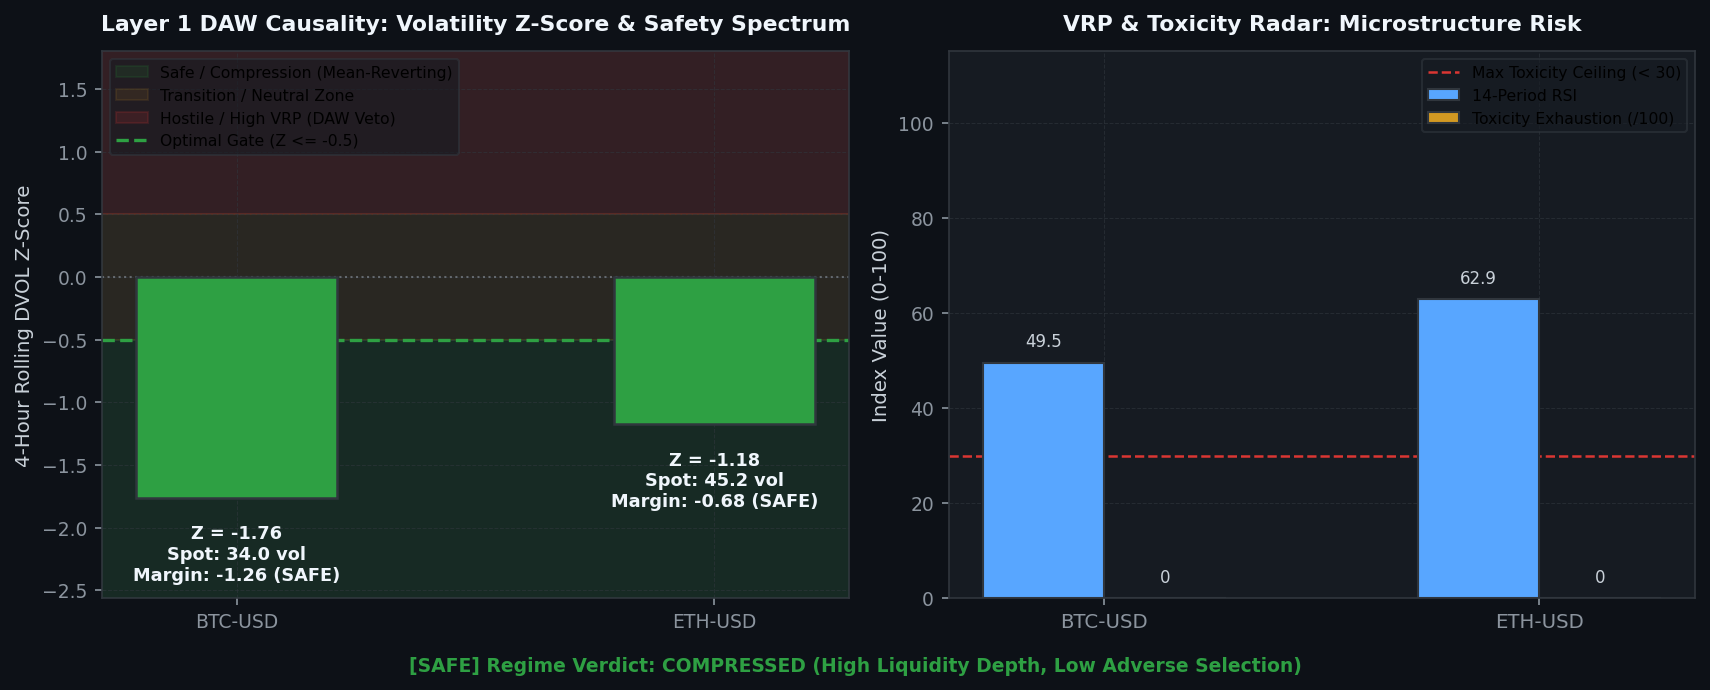
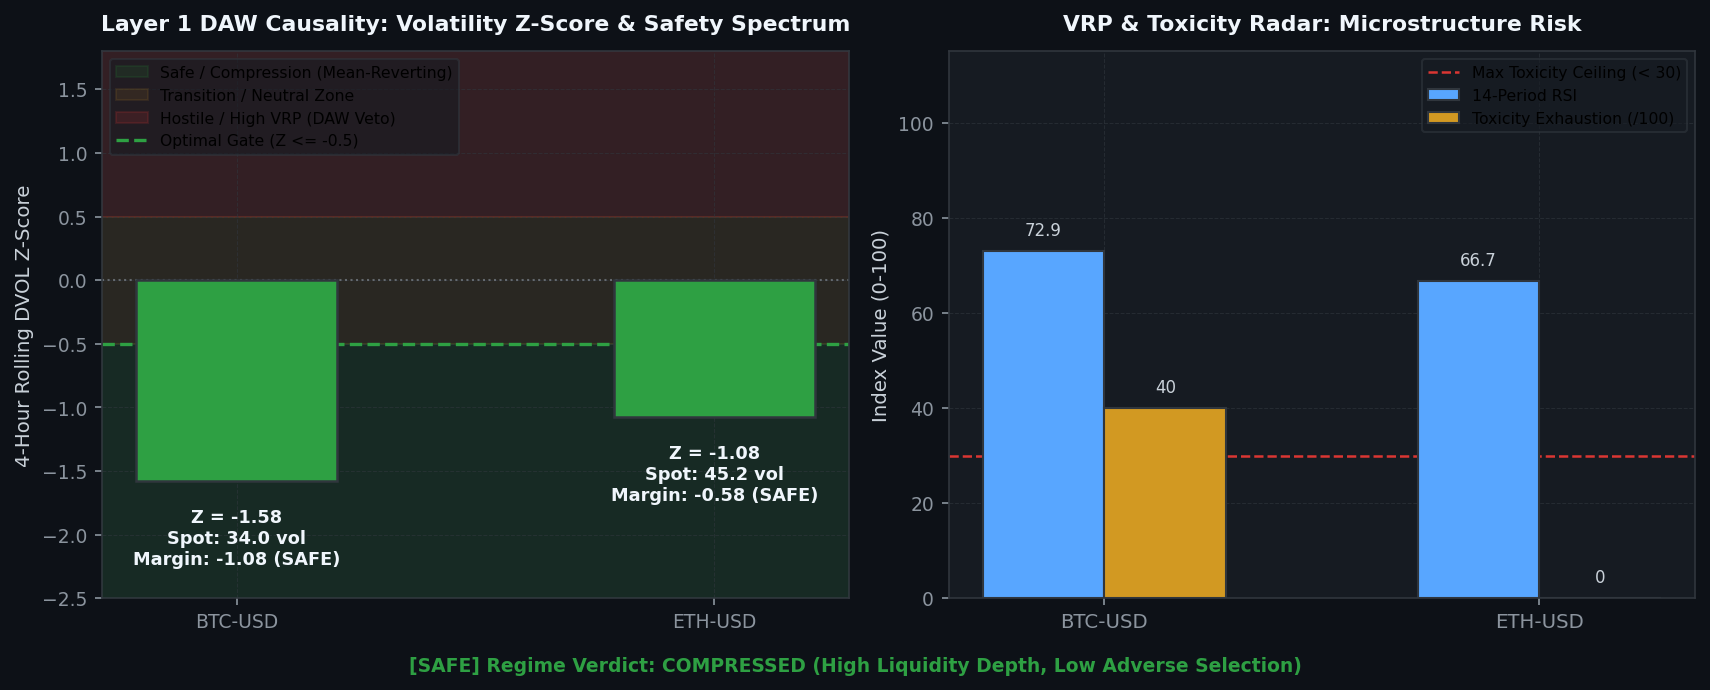
[coinbase] Hourly Status & Visual Intelligence Update: 2026-08-17 05:46:12

diff --git a/coinbase/data/hourly_status_report.md b/coinbase/data/hourly_status_report.md
@@ -1,5 +1,5 @@
 # 🛡 Unified Trading System Hourly Status & Visual Intelligence
-> **Report Generated**: `2026-08-17 05:27:41 AM PDT (2026-08-17 12:27:41 UTC)`  
+> **Report Generated**: `2026-08-17 05:45:51 AM PDT (2026-08-17 12:45:51 UTC)`  
 > **System Health**: **🟡 DEGRADED / RESTRICTED** | **Win Rate**: `0.0%` | **Completed Trades**: `0`
 
 ---
@@ -8,13 +8,13 @@ Real-time Deribit implied volatility (DVOL) proxy tracking against mathematicall
 
 | Symbol | Proxy Oracle | Live Z-Score | Optimal Limit (YSP) | Safety Margin | Live VRP | Optimal VRP (YSP) | DAW Safety Verdict |
 | :--- | :--- | :--- | :--- | :--- | :--- | :--- | :--- |
-| `AVAX-USD` | DVOL_BTC | **-1.76** | **-0.50** | **-1.26** | **+16.13** | 5.0 | 🔴 DAW VETOED |
-| `ETH-USD` | DVOL_ETH | **-1.17** | **-0.50** | **-0.67** | **+27.40** | 5.0 | 🔴 DAW VETOED |
-| `ADA-USD` | DVOL_BTC | **-1.76** | **-0.50** | **-1.26** | **+16.13** | 5.0 | 🔴 DAW VETOED |
-| `DOGE-USD` | DVOL_BTC | **-1.76** | **-0.50** | **-1.26** | **+16.13** | 5.0 | 🔴 DAW VETOED |
-| `BTC-USD` | DVOL_BTC | **-1.76** | **-0.50** | **-1.26** | **+16.13** | 5.0 | 🔴 DAW VETOED |
-| `LINK-USD` | DVOL_BTC | **-1.76** | **-0.50** | **-1.26** | **+16.13** | 5.0 | 🔴 DAW VETOED |
-| `SOL-USD` | DVOL_BTC | **-1.76** | **-0.50** | **-1.26** | **+16.13** | 5.0 | 🔴 DAW VETOED |
+| `AVAX-USD` | DVOL_BTC | **-1.58** | **-0.50** | **-1.08** | **+16.35** | 5.0 | 🔴 DAW VETOED |
+| `ETH-USD` | DVOL_ETH | **-1.08** | **-0.50** | **-0.58** | **+27.61** | 5.0 | 🔴 DAW VETOED |
+| `ADA-USD` | DVOL_BTC | **-1.58** | **-0.50** | **-1.08** | **+16.34** | 5.0 | 🔴 DAW VETOED |
+| `DOGE-USD` | DVOL_BTC | **-1.58** | **-0.50** | **-1.08** | **+16.35** | 5.0 | 🔴 DAW VETOED |
+| `BTC-USD` | DVOL_BTC | **-1.58** | **-0.50** | **-1.08** | **+16.35** | 5.0 | 🔴 DAW VETOED |
+| `LINK-USD` | DVOL_BTC | **-1.58** | **-0.50** | **-1.08** | **+16.35** | 5.0 | 🔴 DAW VETOED |
+| `SOL-USD` | DVOL_BTC | **-1.58** | **-0.50** | **-1.08** | **+16.35** | 5.0 | 🔴 DAW VETOED |
 
 ![DVOL Market Regime](./images/dvol_regime_timeline.png)
 
@@ -44,12 +44,12 @@ We hereby certify that the mission-critical algorithmic data assets uploaded by 
 
 | Status | Data Asset | Freshness / State | Details / Timestamp |
 | :---: | :--- | :--- | :--- |
-| ✅ | **Go-List JSON** | Fresh (4.44h old) | 08-17 01:01 |
-| ✅ | **TimesFM Forecasts** | Fresh (0.77h old) | 08-17 04:41 |
-| ✅ | **Holding Times config** | Fresh (4.24h old) | 08-17 01:13 |
-| ✅ | **BTC DVOL Cache** | Fresh (0.00h old) | 08-17 05:27 |
-| ✅ | **ETH DVOL Cache** | Fresh (0.00h old) | 08-17 05:27 |
-| ✅ | **Live Trading Telemetry** | Fresh (0.00h old) | 08-17 05:27 |
+| ✅ | **Go-List JSON** | Fresh (4.74h old) | 08-17 01:01 |
+| ✅ | **TimesFM Forecasts** | Fresh (1.08h old) | 08-17 04:41 |
+| ✅ | **Holding Times config** | Fresh (4.54h old) | 08-17 01:13 |
+| ✅ | **BTC DVOL Cache** | Fresh (0.01h old) | 08-17 05:45 |
+| ✅ | **ETH DVOL Cache** | Fresh (0.01h old) | 08-17 05:45 |
+| ✅ | **Live Trading Telemetry** | Fresh (0.00h old) | 08-17 05:46 |
 
 <br>
 
@@ -62,7 +62,7 @@ Layer-by-layer tick evaluation waterfall and asset-specific performance tracking
 
 | Funnel Filter Layer | Total Rejections | % of Rejections |
 | :--- | :--- | :--- |
-| Layer 1: DAW Causal Volatility Veto | `70,711` | **100.0%** |
+| Layer 1: DAW Causal Volatility Veto | `71,068` | **100.0%** |
 | Layer 2A: Vol Surface Skew & VRP Gate | `0` | **0.0%** |
 | Layer 2B: DVOL Directional Momentum Bias | `0` | **0.0%** |
 | Layer 2C: KER Efficiency Noise Filter | `0` | **0.0%** |
@@ -91,14 +91,14 @@ Live balance sheet and open maker liquidity positions from Coinbase CDP.
 ## 4. 🤖 Foundation Model MLOps & Pipeline Orchestration
 Weekly Algorithmic Mega Cap selection, Zero-shot multi-step forward return forecasts, and VSTEF parameter grid search status.
 
-- **TimesFM Forecast DB**: 🟢 Updated 0.8h ago (2026-08-17 04:41 AM PDT)
+- **TimesFM Forecast DB**: 🟢 Updated 1.1h ago (2026-08-17 04:41 AM PDT)
 - **Last Weekly VSTEF Optimization**: `2026-08-17 01:13:06 AM PDT`
-- **Next Scheduled VSTEF Run**: `2026-08-23 07:00:00 PM PDT (Monday 02:00 UTC)` (Countdown: **157.5h (6d 13h 32m)**)
+- **Next Scheduled VSTEF Run**: `2026-08-23 07:00:00 PM PDT (Monday 02:00 UTC)` (Countdown: **157.2h (6d 13h 14m)**)
 - **Promoted Parameter Gates**: $Z_{DVOL} \le -0.5$ | Holding Horizon $= 12\text{h}$
 
 ### Algorithmic Mega Cap Selection
 - **Last Run (Confirmation)**: `Never`
-- **Next Scheduled Run**: `2026-08-23 06:00:00 PM PDT (Monday 01:00 UTC)` (Countdown: **156.5h (6d 12h 31m)**)
+- **Next Scheduled Run**: `2026-08-23 06:00:00 PM PDT (Monday 01:00 UTC)` (Countdown: **156.2h (6d 12h 13m)**)
 - **Selected Mega Cap Universe**: `Could not fetch active universe from EC2`
 
 ![TimesFM Forecast Matrix](./images/timesfm_forecast_matrix.png)
@@ -112,19 +112,19 @@ Visualizing the impact of the VSTEF (Volatility-Synchronized Stop-Tightening Exe
 ## 5. 🖥 Multi-Node Infrastructure & Watchdog Matrix
 ```text
 ================================================================================
-   🛡  SFGK FUNNEL GUARDIAN WATCHDOG (HFT ONLY) |  12:27:41 PM
-   CPU:   7.1%  |  MEM:   5.2% (14.6GB / 15.4GB Free)
+   🛡  SFGK FUNNEL GUARDIAN WATCHDOG (HFT ONLY) |  12:45:49 PM
+   CPU:  17.0%  |  MEM:   6.3% (14.4GB / 15.4GB Free)
 ================================================================================
 SERVICE              | PID      | STATUS          | RESTARTS | INFO
 --------------------------------------------------------------------------------
 L3 Consumer          | 2079086  | RUNNING         | -        | Continuous Websocket Feed
-Trader AVAX-USD      | 2119459  | COOL-DOWN       | 131      | Next run in 4.6s
-Trader ETH-USD       | 2119460  | COOL-DOWN       | 131      | Next run in 4.6s
-Trader ADA-USD       | 2119461  | COOL-DOWN       | 131      | Next run in 4.6s
-Trader DOGE-USD      | 2119462  | COOL-DOWN       | 131      | Next run in 4.6s
-Trader BTC-USD       | 2119463  | COOL-DOWN       | 131      | Next run in 4.6s
-Trader LINK-USD      | 2119464  | COOL-DOWN       | 131      | Next run in 4.6s
-Trader SOL-USD       | 2119465  | COOL-DOWN       | 131      | Next run in 4.6s
+Trader AVAX-USD      | 2135676  | RUNNING         | 183      | Evaluating Funnel/Polling Order
+Trader ETH-USD       | 2135677  | RUNNING         | 183      | Evaluating Funnel/Polling Order
+Trader ADA-USD       | 2135678  | RUNNING         | 183      | Evaluating Funnel/Polling Order
+Trader DOGE-USD      | 2135679  | RUNNING         | 183      | Evaluating Funnel/Polling Order
+Trader BTC-USD       | 2135680  | RUNNING         | 183      | Evaluating Funnel/Polling Order
+Trader LINK-USD      | 2135681  | RUNNING         | 183      | Evaluating Funnel/Polling Order
+Trader SOL-USD       | 2135682  | RUNNING         | 183      | Evaluating Funnel/Polling Order
 ================================================================================
 ```
 
